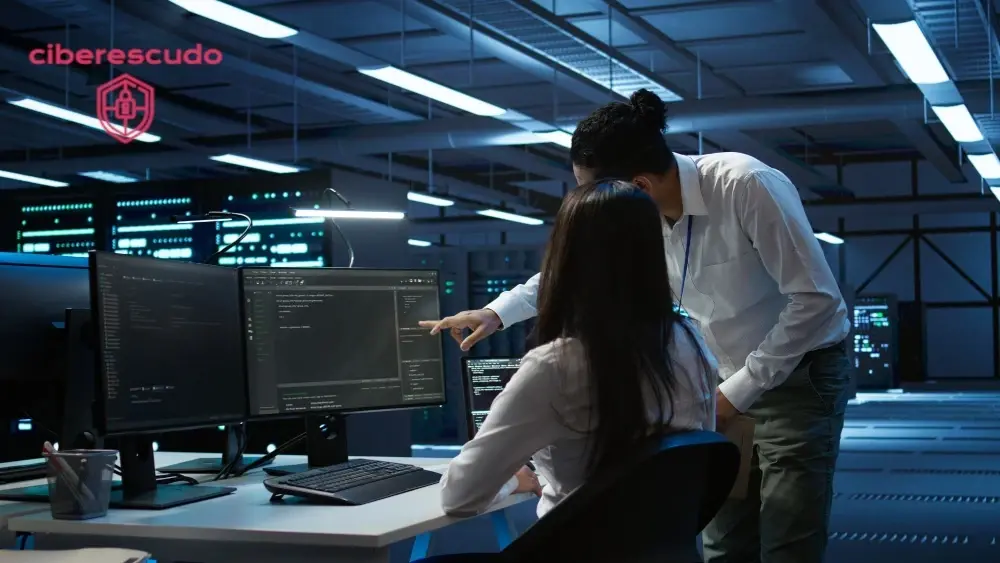
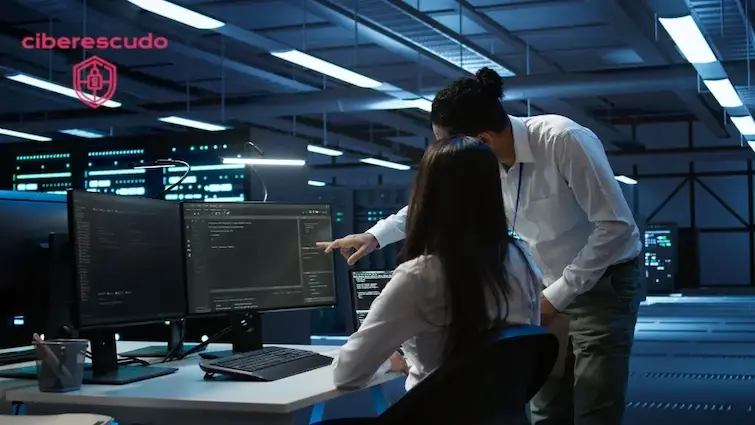
modificado: más optimizacion de imagenes

diff --git a/index.html b/index.html
@@ -78,7 +78,7 @@
     <main class="main">
         <div class="main-container">
             <div class="banner">
-                <img src="img/banner-main.webp" alt="Banner web">
+                <img src="img/CIBERESCUDO.webp" alt="Banner web">
             </div>
             <div id="bienvenida-container" class="seccion">
                 <h1>Protegiendo tu mundo digital</h1>
